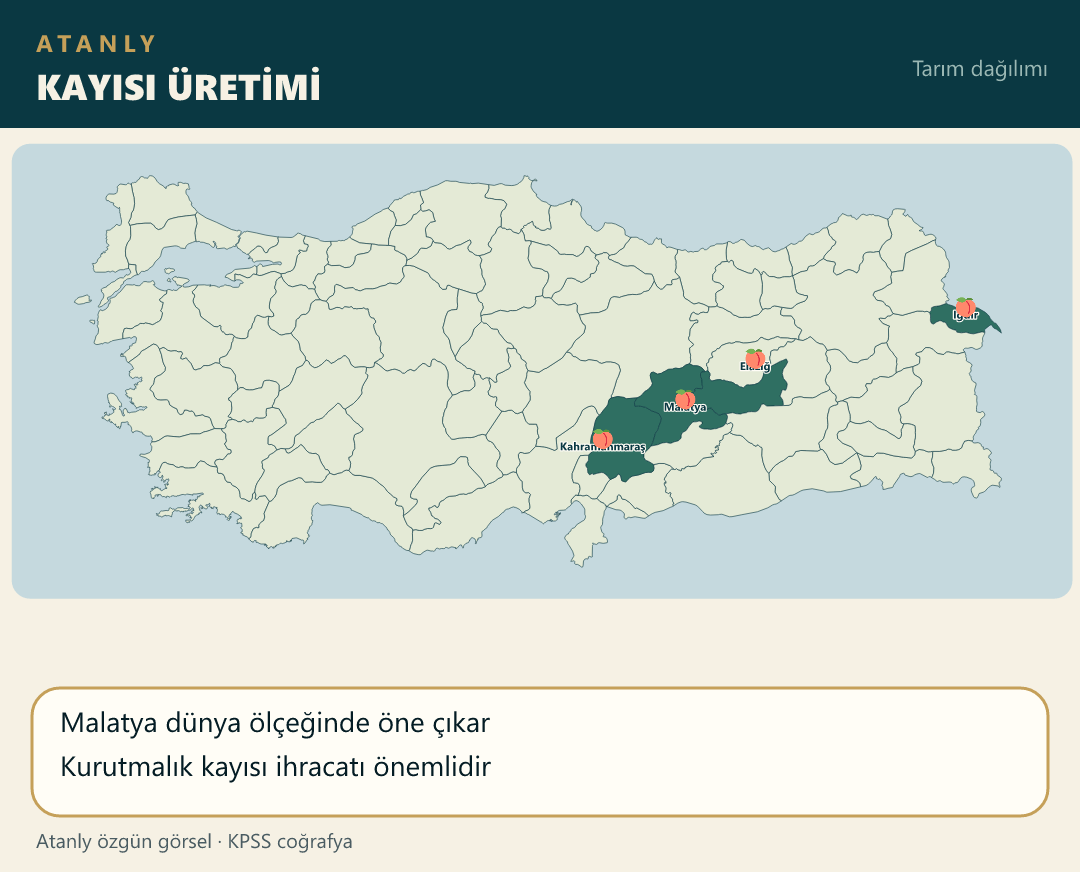
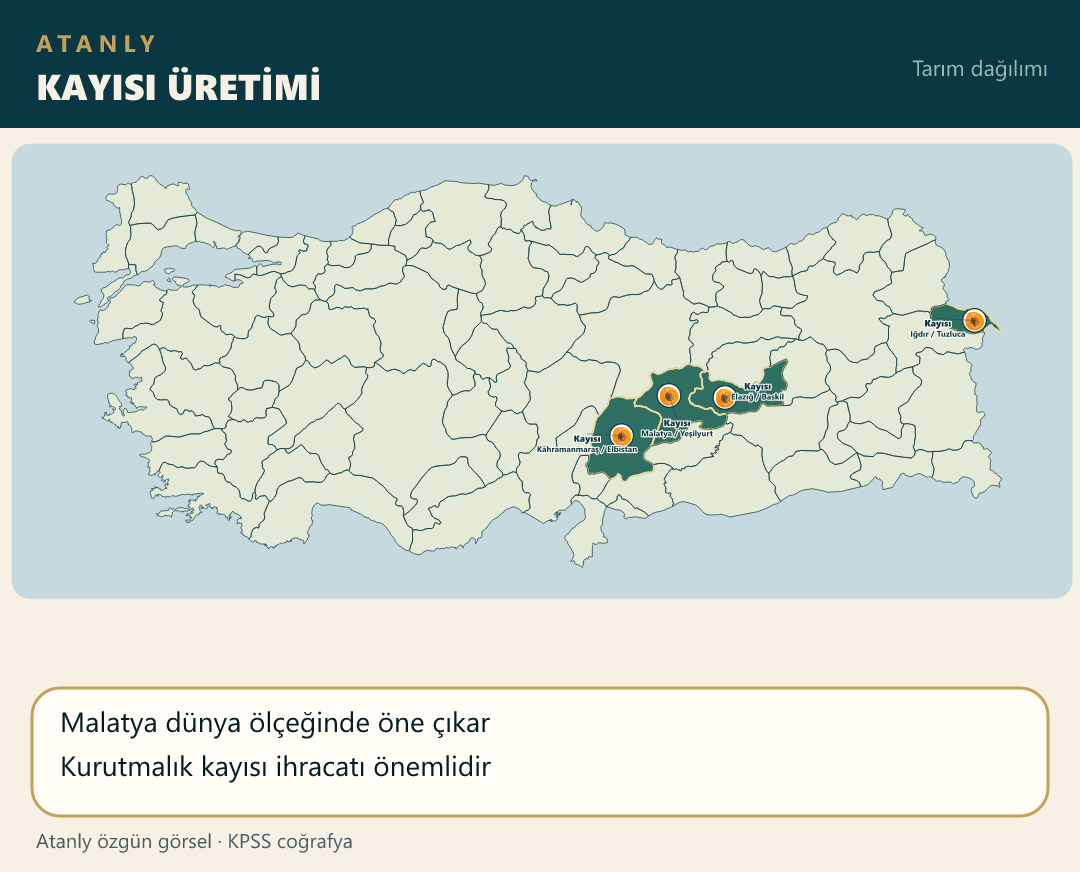
Place the apricot photo on Malatya-region kayısı production pins.

Changed region(s): [[0.4889, 0.4025, 0.7333, 0.5573], [0.825, 0.3406, 0.9167, 0.4335], [0.2444, 0.4954, 0.275, 0.5264]]

diff --git a/scripts/build-atanly-maps.js b/scripts/build-atanly-maps.js
@@ -624,7 +624,14 @@ function main() {
                 { il: "Gaziantep", ilce: "Nizip", ldx: -32, ldy: 6 }
             ],
             facts: ["Aydın birinci sıradadır", "Ege’nin kurutmalık inciri meşhurdur"] },
-        { file: "kayısı.png", title: "KAYISI ÜRETİMİ", iller: ["Malatya", "Elazığ", "Kahramanmaraş", "Iğdır"], facts: ["Malatya dünya ölçeğinde öne çıkar", "Kurutmalık kayısı ihracatı önemlidir"] },
+        { file: "kayısı.png", title: "KAYISI ÜRETİMİ", urun: "Kayısı",
+            noktalar: [
+                { il: "Malatya", ilce: "Yeşilyurt", ldx: 8, ldy: 30 },
+                { il: "Elazığ", ilce: "Baskil", ldx: 32, ldy: -8 },
+                { il: "Kahramanmaraş", ilce: "Elbistan", ldx: -34, ldy: 6 },
+                { il: "Iğdır", ilce: "Tuzluca", ldx: -36, ldy: 6 }
+            ],
+            facts: ["Malatya dünya ölçeğinde öne çıkar", "Kurutmalık kayısı ihracatı önemlidir"] },
         { file: "muz.png", title: "MUZ ÜRETİMİ", iller: ["Mersin", "Antalya", "Hatay"], facts: ["Don olayının az olduğu kıyı kuşağı", "Anamur–Alanya çevresi yoğundur"] },
         { file: "anason.png", title: "ANASON ÜRETİMİ", urun: "Anason",
             noktalar: [

diff --git a/notlar/cografya-19-not.js b/notlar/cografya-19-not.js
@@ -2,7 +2,7 @@
 (function () {
     function harita(src, alt) {
         return '<div class="mt-4 overflow-hidden rounded-xl border border-blue-200 dark:border-blue-700/50 bg-white dark:bg-slate-800 p-2">' +
-            '<img src="./src/img/' + src + '?v=27" alt="' + alt + ' Haritası" class="w-full h-auto rounded-lg object-contain" loading="lazy">' +
+            '<img src="./src/img/' + src + '?v=28" alt="' + alt + ' Haritası" class="w-full h-auto rounded-lg object-contain" loading="lazy">' +
             "</div>";
     }
 

diff --git a/index.html b/index.html
@@ -117,7 +117,7 @@
     <script src="notlar/cografya-16-not.js?v=3"></script>
     <script src="notlar/cografya-17-not.js?v=3"></script>
     <script src="notlar/cografya-18-not.js?v=16"></script>
-    <script src="notlar/cografya-19-not.js?v=23"></script>
+    <script src="notlar/cografya-19-not.js?v=24"></script>
     <script src="notlar/cografya-20-not.js?v=1"></script>
     <script src="notlar/cografya-21-not.js?v=4"></script>
     <script src="notlar/cografya-22-not.js?v=1"></script>
